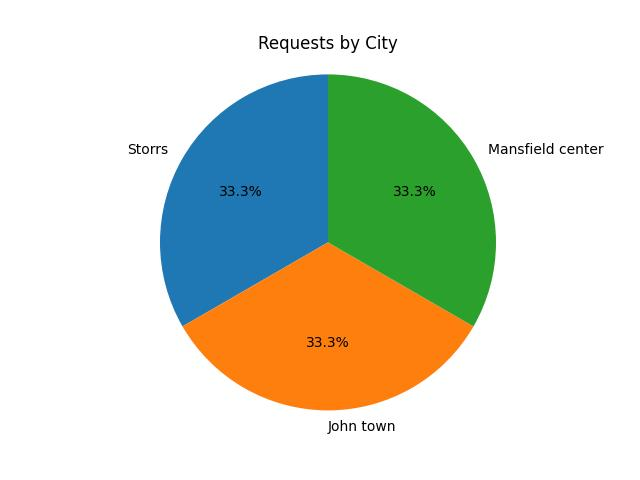
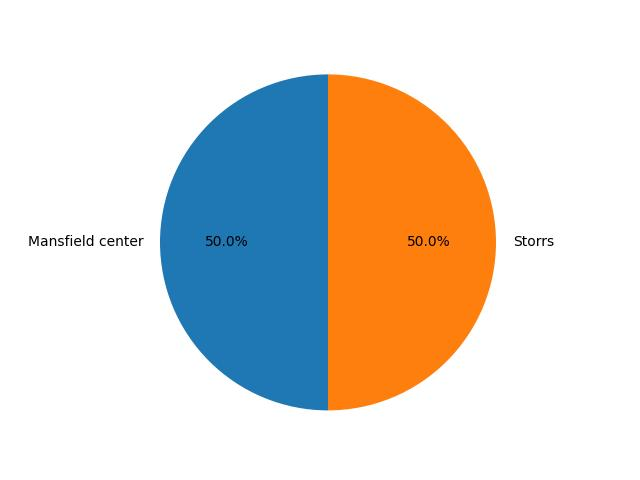
working version v1

diff --git a/templates/admin.html b/templates/admin.html
@@ -66,8 +66,9 @@
             {% endfor %}
         </div>
         <div id="graphs">
-            <h1>Overall Metrics</h1>
+            <h1>Essential Resource Metrics</h1>
             <img src="static/output.jpg" alt="">
+            <h1>Requests by City</h1>
             <img src="static/output2.jpg" alt="">
         </div>
     </div>

diff --git a/static/admin.css b/static/admin.css
@@ -106,3 +106,7 @@ button {
 img {
     width: 100%;
 }
+
+h1 {
+    text-align: center;
+}

diff --git a/server.py b/server.py
@@ -232,7 +232,5 @@ def makePie(citiesDic):
     # Equal aspect ratio ensures that pie is drawn as a circle.
     ax1.axis('equal')
 
-    plt.title("Requests by City")
-
     outputFile2 = os.path.join(THIS_FOLDER, './static/output2.jpg')
     plt.savefig(outputFile2)
